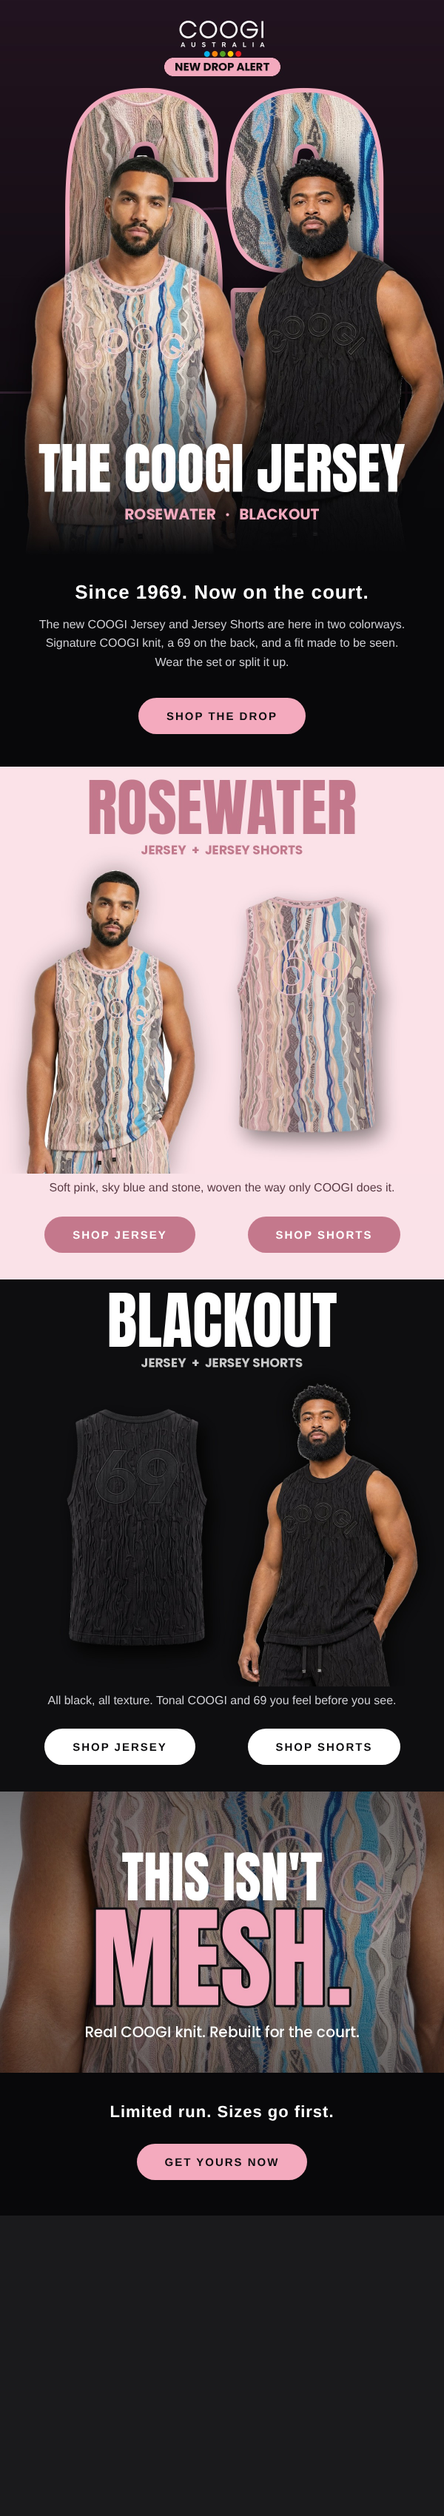
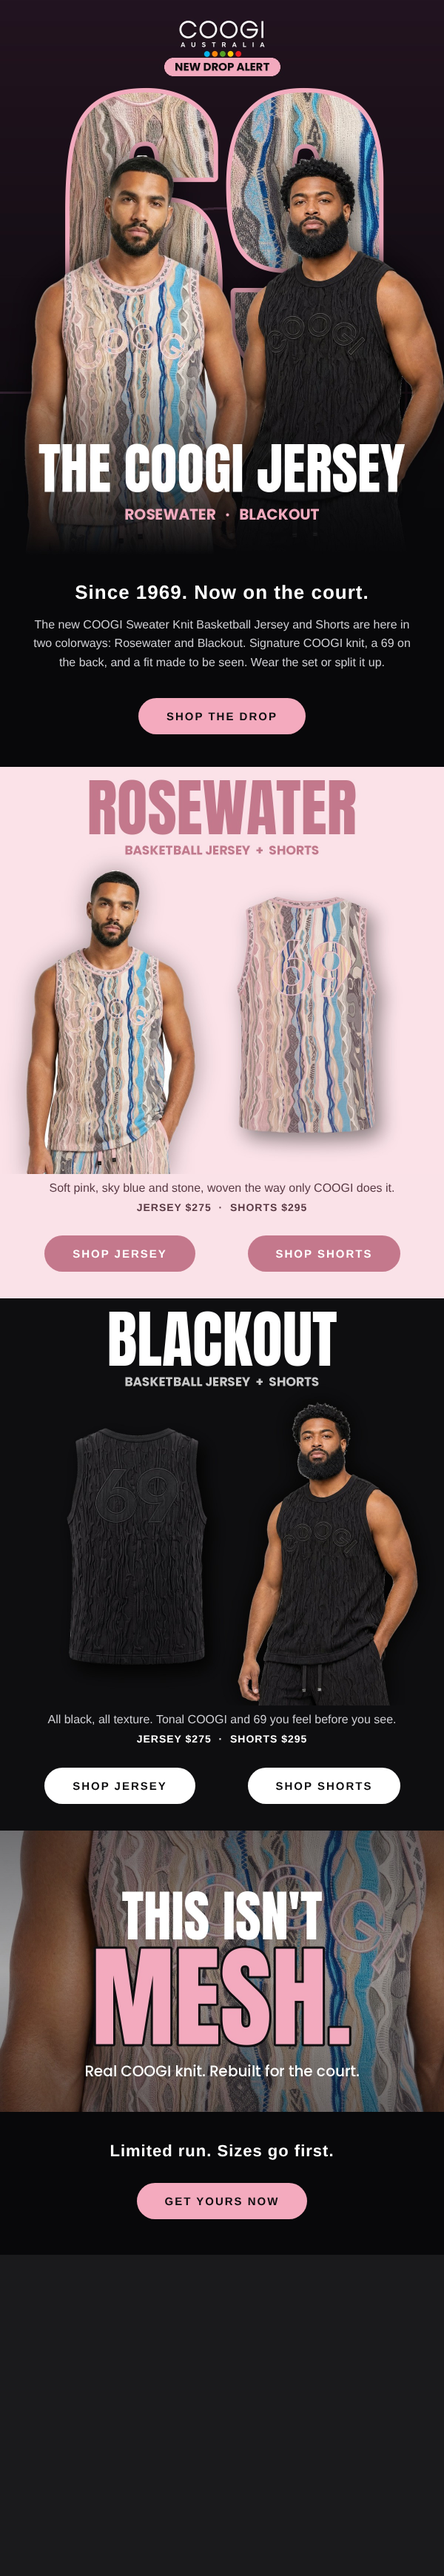
Jersey email: real product names, links and prices
Claude-Session: https://claude.ai/code/session_01Q3QB3BFV8sxpPynxGTz8gE

Changed region(s): [[0.0, 0.0, 1.0, 0.8729], [0.06, 0.1247, 0.09, 0.1559]]

diff --git a/email/jersey-drop/jersey_drop_email.html b/email/jersey-drop/jersey_drop_email.html
@@ -3,22 +3,22 @@
 <div style="display:none;max-height:0;overflow:hidden;">Rosewater or Blackout. The jersey only COOGI could make just dropped.</div>
 <table role="presentation" width="100%" cellpadding="0" cellspacing="0" bgcolor="#1a1a1c"><tr><td align="center">
 <table role="presentation" width="600" cellpadding="0" cellspacing="0" style="width:100%;max-width:600px;background:#08080A;">
-<tr><td><a href="https://coogi.com/search?q=jersey"><img src="https://raw.githubusercontent.com/ShaneClawAgent/coogi-ad-assets/main/email/jersey-drop/01_hero.jpg" width="600" alt="The COOGI Jersey — new drop" style="display:block;width:100%;max-width:600px;height:auto;border:0;"></a></td></tr>
+<tr><td><a href="https://coogi.com/search?q=sweater+knit+basketball&type=product"><img src="https://raw.githubusercontent.com/ShaneClawAgent/coogi-ad-assets/main/email/jersey-drop/01_hero.jpg" width="600" alt="The COOGI Jersey — new drop" style="display:block;width:100%;max-width:600px;height:auto;border:0;"></a></td></tr>
 <tr><td bgcolor="#08080A" align="center" style="padding:34px 44px 10px;font-family:Arial,Helvetica,sans-serif;color:#ffffff;">
 <div style="font-size:26px;font-weight:bold;letter-spacing:1px;line-height:1.25;">Since 1969. Now on the court.</div>
-<div style="font-size:16px;line-height:1.6;color:#cfcfd4;padding-top:14px;">The new COOGI Jersey and Jersey Shorts are here in two colorways. Signature COOGI knit, a 69 on the back, and a fit made to be seen. Wear the set or split it up.</div>
+<div style="font-size:16px;line-height:1.6;color:#cfcfd4;padding-top:14px;">The new COOGI Sweater Knit Basketball Jersey and Shorts are here in two colorways: Rosewater and Blackout. Signature COOGI knit, a 69 on the back, and a fit made to be seen. Wear the set or split it up.</div>
 </td></tr>
-<tr><td bgcolor="#08080A" style="padding:26px 0 44px;"><table role="presentation" cellpadding="0" cellspacing="0" border="0" align="center"><tr><td bgcolor="#F4AABE" style="border-radius:40px;"><a href="https://coogi.com/search?q=jersey" style="display:inline-block;padding:16px 38px;font-family:Arial,Helvetica,sans-serif;font-size:15px;font-weight:bold;letter-spacing:2px;color:#0E0E10;text-decoration:none;">SHOP THE DROP</a></td></tr></table></td></tr>
-<tr><td><a href="https://coogi.com/search?q=jersey"><img src="https://raw.githubusercontent.com/ShaneClawAgent/coogi-ad-assets/main/email/jersey-drop/02_rosewater.jpg" width="600" alt="COOGI Rosewater Jersey and Jersey Shorts" style="display:block;width:100%;max-width:600px;height:auto;border:0;"></a></td></tr>
-<tr><td bgcolor="#FAE2E8" align="center" style="padding:6px 44px 22px;font-family:Arial,Helvetica,sans-serif;font-size:16px;line-height:1.6;color:#5a3a44;">Soft pink, sky blue and stone, woven the way only COOGI does it.</td></tr>
+<tr><td bgcolor="#08080A" style="padding:26px 0 44px;"><table role="presentation" cellpadding="0" cellspacing="0" border="0" align="center"><tr><td bgcolor="#F4AABE" style="border-radius:40px;"><a href="https://coogi.com/search?q=sweater+knit+basketball&type=product" style="display:inline-block;padding:16px 38px;font-family:Arial,Helvetica,sans-serif;font-size:15px;font-weight:bold;letter-spacing:2px;color:#0E0E10;text-decoration:none;">SHOP THE DROP</a></td></tr></table></td></tr>
+<tr><td><a href="https://coogi.com/products/new-coogi-rosewater-sweater-knit-basketball-jersey"><img src="https://raw.githubusercontent.com/ShaneClawAgent/coogi-ad-assets/main/email/jersey-drop/02_rosewater.jpg" width="600" alt="COOGI Rosewater Jersey and Jersey Shorts" style="display:block;width:100%;max-width:600px;height:auto;border:0;"></a></td></tr>
+<tr><td bgcolor="#FAE2E8" align="center" style="padding:6px 44px 22px;font-family:Arial,Helvetica,sans-serif;font-size:16px;line-height:1.6;color:#5a3a44;">Soft pink, sky blue and stone, woven the way only COOGI does it.<br><span style="font-size:14px;font-weight:bold;letter-spacing:1px;">JERSEY $275 &nbsp;·&nbsp; SHORTS $295</span></td></tr>
 <tr><td bgcolor="#FAE2E8" style="padding:4px 24px 36px;"><table role="presentation" width="100%" cellpadding="0" cellspacing="0"><tr>
-<td width="50%" align="center" style="padding:0 6px;"><table role="presentation" cellpadding="0" cellspacing="0" border="0" align="center"><tr><td bgcolor="#C4788C" style="border-radius:40px;"><a href="https://coogi.com/search?q=jersey" style="display:inline-block;padding:16px 38px;font-family:Arial,Helvetica,sans-serif;font-size:15px;font-weight:bold;letter-spacing:2px;color:#FFFFFF;text-decoration:none;">SHOP JERSEY</a></td></tr></table></td><td width="50%" align="center" style="padding:0 6px;"><table role="presentation" cellpadding="0" cellspacing="0" border="0" align="center"><tr><td bgcolor="#C4788C" style="border-radius:40px;"><a href="https://coogi.com/search?q=jersey" style="display:inline-block;padding:16px 38px;font-family:Arial,Helvetica,sans-serif;font-size:15px;font-weight:bold;letter-spacing:2px;color:#FFFFFF;text-decoration:none;">SHOP SHORTS</a></td></tr></table></td></tr></table></td></tr>
-<tr><td><a href="https://coogi.com/search?q=jersey"><img src="https://raw.githubusercontent.com/ShaneClawAgent/coogi-ad-assets/main/email/jersey-drop/03_blackout.jpg" width="600" alt="COOGI Blackout Jersey and Jersey Shorts" style="display:block;width:100%;max-width:600px;height:auto;border:0;"></a></td></tr>
-<tr><td bgcolor="#0E0E10" align="center" style="padding:6px 44px 22px;font-family:Arial,Helvetica,sans-serif;font-size:16px;line-height:1.6;color:#cfcfd4;">All black, all texture. Tonal COOGI and 69 you feel before you see.</td></tr>
+<td width="50%" align="center" style="padding:0 6px;"><table role="presentation" cellpadding="0" cellspacing="0" border="0" align="center"><tr><td bgcolor="#C4788C" style="border-radius:40px;"><a href="https://coogi.com/products/new-coogi-rosewater-sweater-knit-basketball-jersey" style="display:inline-block;padding:16px 38px;font-family:Arial,Helvetica,sans-serif;font-size:15px;font-weight:bold;letter-spacing:2px;color:#FFFFFF;text-decoration:none;">SHOP JERSEY</a></td></tr></table></td><td width="50%" align="center" style="padding:0 6px;"><table role="presentation" cellpadding="0" cellspacing="0" border="0" align="center"><tr><td bgcolor="#C4788C" style="border-radius:40px;"><a href="https://coogi.com/products/new-coogi-rosewater-sweater-knit-basketball-shorts" style="display:inline-block;padding:16px 38px;font-family:Arial,Helvetica,sans-serif;font-size:15px;font-weight:bold;letter-spacing:2px;color:#FFFFFF;text-decoration:none;">SHOP SHORTS</a></td></tr></table></td></tr></table></td></tr>
+<tr><td><a href="https://coogi.com/products/new-coogi-blackout-sweater-knit-basketball-jersey"><img src="https://raw.githubusercontent.com/ShaneClawAgent/coogi-ad-assets/main/email/jersey-drop/03_blackout.jpg" width="600" alt="COOGI Blackout Jersey and Jersey Shorts" style="display:block;width:100%;max-width:600px;height:auto;border:0;"></a></td></tr>
+<tr><td bgcolor="#0E0E10" align="center" style="padding:6px 44px 22px;font-family:Arial,Helvetica,sans-serif;font-size:16px;line-height:1.6;color:#cfcfd4;">All black, all texture. Tonal COOGI and 69 you feel before you see.<br><span style="font-size:14px;font-weight:bold;letter-spacing:1px;color:#ffffff;">JERSEY $275 &nbsp;·&nbsp; SHORTS $295</span></td></tr>
 <tr><td bgcolor="#0E0E10" style="padding:4px 24px 36px;"><table role="presentation" width="100%" cellpadding="0" cellspacing="0"><tr>
-<td width="50%" align="center" style="padding:0 6px;"><table role="presentation" cellpadding="0" cellspacing="0" border="0" align="center"><tr><td bgcolor="#FFFFFF" style="border-radius:40px;"><a href="https://coogi.com/search?q=jersey" style="display:inline-block;padding:16px 38px;font-family:Arial,Helvetica,sans-serif;font-size:15px;font-weight:bold;letter-spacing:2px;color:#0E0E10;text-decoration:none;">SHOP JERSEY</a></td></tr></table></td><td width="50%" align="center" style="padding:0 6px;"><table role="presentation" cellpadding="0" cellspacing="0" border="0" align="center"><tr><td bgcolor="#FFFFFF" style="border-radius:40px;"><a href="https://coogi.com/search?q=jersey" style="display:inline-block;padding:16px 38px;font-family:Arial,Helvetica,sans-serif;font-size:15px;font-weight:bold;letter-spacing:2px;color:#0E0E10;text-decoration:none;">SHOP SHORTS</a></td></tr></table></td></tr></table></td></tr>
-<tr><td><a href="https://coogi.com/search?q=jersey"><img src="https://raw.githubusercontent.com/ShaneClawAgent/coogi-ad-assets/main/email/jersey-drop/04_knit.jpg" width="600" alt="This isn't mesh. Real COOGI knit." style="display:block;width:100%;max-width:600px;height:auto;border:0;"></a></td></tr>
+<td width="50%" align="center" style="padding:0 6px;"><table role="presentation" cellpadding="0" cellspacing="0" border="0" align="center"><tr><td bgcolor="#FFFFFF" style="border-radius:40px;"><a href="https://coogi.com/products/new-coogi-blackout-sweater-knit-basketball-jersey" style="display:inline-block;padding:16px 38px;font-family:Arial,Helvetica,sans-serif;font-size:15px;font-weight:bold;letter-spacing:2px;color:#0E0E10;text-decoration:none;">SHOP JERSEY</a></td></tr></table></td><td width="50%" align="center" style="padding:0 6px;"><table role="presentation" cellpadding="0" cellspacing="0" border="0" align="center"><tr><td bgcolor="#FFFFFF" style="border-radius:40px;"><a href="https://coogi.com/products/new-coogi-blackout-sweater-knit-basketball-shorts" style="display:inline-block;padding:16px 38px;font-family:Arial,Helvetica,sans-serif;font-size:15px;font-weight:bold;letter-spacing:2px;color:#0E0E10;text-decoration:none;">SHOP SHORTS</a></td></tr></table></td></tr></table></td></tr>
+<tr><td><a href="https://coogi.com/search?q=sweater+knit+basketball&type=product"><img src="https://raw.githubusercontent.com/ShaneClawAgent/coogi-ad-assets/main/email/jersey-drop/04_knit.jpg" width="600" alt="This isn't mesh. Real COOGI knit." style="display:block;width:100%;max-width:600px;height:auto;border:0;"></a></td></tr>
 <tr><td bgcolor="#08080A" align="center" style="padding:40px 44px 12px;font-family:Arial,Helvetica,sans-serif;color:#ffffff;">
 <div style="font-size:22px;font-weight:bold;letter-spacing:1px;">Limited run. Sizes go first.</div></td></tr>
-<tr><td bgcolor="#08080A" style="padding:18px 0 48px;"><table role="presentation" cellpadding="0" cellspacing="0" border="0" align="center"><tr><td bgcolor="#F4AABE" style="border-radius:40px;"><a href="https://coogi.com/search?q=jersey" style="display:inline-block;padding:16px 38px;font-family:Arial,Helvetica,sans-serif;font-size:15px;font-weight:bold;letter-spacing:2px;color:#0E0E10;text-decoration:none;">GET YOURS NOW</a></td></tr></table></td></tr>
+<tr><td bgcolor="#08080A" style="padding:18px 0 48px;"><table role="presentation" cellpadding="0" cellspacing="0" border="0" align="center"><tr><td bgcolor="#F4AABE" style="border-radius:40px;"><a href="https://coogi.com/search?q=sweater+knit+basketball&type=product" style="display:inline-block;padding:16px 38px;font-family:Arial,Helvetica,sans-serif;font-size:15px;font-weight:bold;letter-spacing:2px;color:#0E0E10;text-decoration:none;">GET YOURS NOW</a></td></tr></table></td></tr>
 </table></td></tr></table></body></html>
